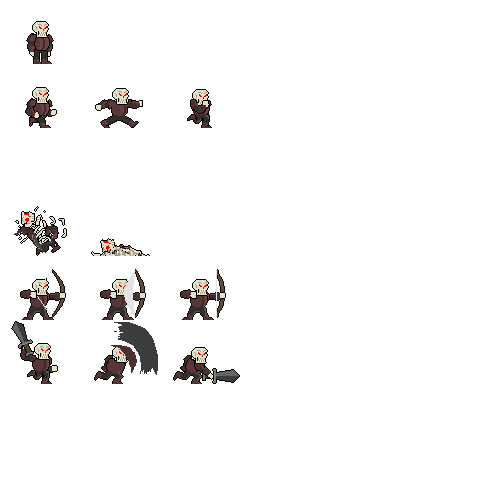
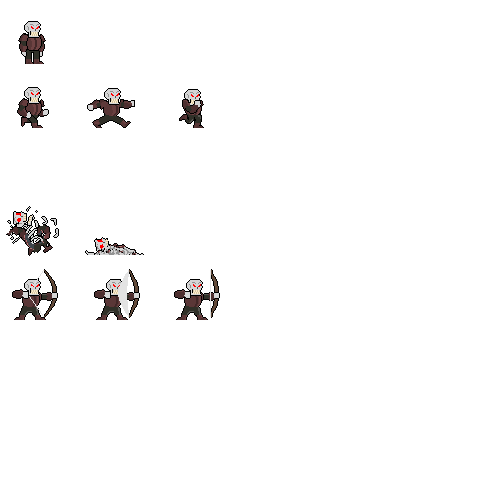
Ajouts du système de combat du boss

diff --git a/platformer/javascript/entities/Entity.js b/platformer/javascript/entities/Entity.js
@@ -11,12 +11,15 @@ function Entity(level, position, width, height){
     var selectedItemId = 0;
 
     var canAttack = true;
+    var useWeapon = true;
     var attacking = false;
 
     var dropCoin = false;
 
     var bloodRatio = 1;
     var DeathParticule = Blood;
+
+    var knockbackImmune = false;
 
     this.property.maxHealth = 0;
     this.property.baseRange = 0;
@@ -64,9 +67,13 @@ function Entity(level, position, width, height){
 
     this.animate = function(){
         if(!this.isDead()){
-            if(this.isAttacking()){
+            if(this.constructor.name == 'Boss' && this.isLaughing()){
+                this.setAnimation(this.animationList.laughing);
+            }
+            else if(this.isAttacking()){
                 var selectedWeapon = this.getSelectedItem();
-
+                this.setAttacking(false);
+                
                 if(selectedWeapon.getName() == 'bow'){
                     this.setAnimation(this.animationList.bowAttack);
                 }
@@ -79,8 +86,6 @@ function Entity(level, position, width, height){
                 else if(selectedWeapon.getName() == 'fireBallSpell'){
                     this.setAnimation(this.animationList.fireBallAttack);
                 }
-
-                this.setAttacking(false);
             }
             else if(this.isJumping()){
                 if(this.isDoubleJumping()){
@@ -130,7 +135,7 @@ function Entity(level, position, width, height){
     }
 
     this.attack = function(targets){
-        if(!canAttack || dead){
+        if(!canAttack || dead || !useWeapon){
             return;
         }
 
@@ -141,26 +146,33 @@ function Entity(level, position, width, height){
             canAttack = false;
             attacking = true;
 
-
             if(!weapon.property.projectile){
-                    for(var i in targets){
-                        if(rangeBox.intersects(targets[i]) && !targets[i].isDead() && targets[i] !== this){
-                            this.hit(targets[i], weapon, 0, this.getDirection());
+                var projectiles = level.getMap().getVisibleItems();
+
+                for(var i in targets){
+                    if(!(!rangeBox.intersects(targets[i]) || targets[i].isDead() || targets[i] === this)){
+                        this.hit(targets[i], weapon, 0, this.getDirection());
+                    }
+                }
+
+                for(var i in projectiles){
+                    if(rangeBox.intersects(projectiles[i]) && projectiles[i].isDeflectable()){
+                        projectiles[i].setStopped(true);
+                    }
+                }
+
+                // on boucle dans la liste des tiles visibles pour savoir si on a touché un tile cassable
+                var tiles = level.getMap().getVisibleTiles();
+
+                for(var i = 0, n = tiles.length; i < n; i++){
+                    var tile = tiles[i];
+                    if(tile.isBreakable()){
+                        if(this.getRangeBox().intersects(tile)){
+                            tile.break();
+                            break;
                         }
                     }
-
-                    // on boucle dans la liste des tiles visibles pour savoir si on a touché un tile cassable
-                    var tiles = level.getMap().getVisibleTiles();
-
-                    for(var i = 0, n = tiles.length; i < n; i++){
-                        var tile = tiles[i];
-                        if(tile.isBreakable()){
-                            if(this.getRangeBox().intersects(tile)){
-                                tile.break();
-                                break;
-                            }
-                        }
-                    }
+                }
             }
             else{
                 var animDelay = 0;
@@ -229,7 +241,7 @@ function Entity(level, position, width, height){
             knockback = this.property.jumpHeight;
         }
 
-        if(knockback > 0){
+        if(knockback > 0 && !entity.isKnockbackImmune()){
             entity.setVector((originDirection == 1) ? knockback : -knockback, -knockback);
         }
 
@@ -242,8 +254,10 @@ function Entity(level, position, width, height){
             var rand = Math.random();
 
             if(rand > 1 - entity.property.bleedingChance){
-                entity.setBleeding(true);
-                entity.bleed(amount);
+                level.getTimers().addTimer(function(){
+                    entity.setBleeding(true);
+                    entity.bleed(amount);
+                }, 2000);
             }
         }
 
@@ -279,7 +293,7 @@ function Entity(level, position, width, height){
         return parseInt(1 + ((this.width * this.height) / (platformer.tileSizeX * platformer.tileSizeY)) * 1, 10);
     }
     this.maxBloodAmount = function(){
-        return parseInt(1 + ((this.width * this.height) / (platformer.tileSizeX * platformer.tileSizeY)) * 12, 10);
+        return parseInt(1 + ((this.width * this.height) / (platformer.tileSizeX * platformer.tileSizeY)) * 8, 10);
     }
 
 
@@ -413,11 +427,20 @@ function Entity(level, position, width, height){
     this.setCanAttack = function(b){
         canAttack = b;
     }
+    this.setCanUseWeapon = function(b){
+        useWeapon = b;
+    }
 
+    this.setKnockbackImmune = function(b){
+        knockbackImmune = b;
+    }
+
+    this.isKnockbackImmune = function(){ return knockbackImmune; }
     this.getInventory = function(){ return inventory; }
     this.isDead = function(){ return dead; }
     this.getHealth = function(){ return health; }
     this.isBleeding = function(){ return bleeding; }
     this.isAttacking = function(){ return attacking; }
     this.canDropCoin = function(){ return dropCoin; }
+    this.canUseWeapon = function(){ return useWeapon; }
 }

diff --git a/platformer/javascript/entities/Boss.js b/platformer/javascript/entities/Boss.js
@@ -1,7 +1,31 @@
 function Boss(level, position){
-    AI_Entity.call(this, level, position, 90, 170);
+    AI_Entity.call(this, level, position, 58 * platformer.scale, 81 * platformer.scale);
 
-    this.setRenderBox(160 * platformer.scale, 128 * platformer.scale);
+    var self = this;
+
+    this.setRenderBox(122 * platformer.scale, 122 * platformer.scale);
+    this.setViewBoxHeightRatio(0.75);
+
+    this.property.speed = 0.1;
+    this.property.stopSpeed = 0.1;
+    this.property.maxSpeed = 0.3;
+    this.property.fallSpeed = 2;
+    this.property.maxFallSpeed = 8;
+    this.property.jumpHeight = 3;
+    this.property.doubleJumpHeight = 4;
+    this.property.maxHealth = 50;
+    this.property.baseRange = 50;
+    this.property.bleedingChance = 0;
+    this.property.attackCooldown = 0;
+    this.property.reactionTime = 500;
+    this.property.viewDistance = 750;
+
+
+    this.animationList.idle = new Animation('idle', platformer.textures.boss.idle, 1000, { random : true });
+    this.animationList.walking = new Animation('walking', platformer.textures.boss.walking, 400);
+    this.animationList.laughing = new Animation('laughing', platformer.textures.boss.laughing, 350);
+    this.animationList.falling = new Animation('falling', platformer.textures.boss.falling, 1000);
+    this.animationList.fireBallAttack = new Animation('fireBallAttack', platformer.textures.boss.idle, 150, { cancelable : true });
 
     this.setColor('#D9828C');
     this.setCanDropCoin(false);
@@ -11,4 +35,44 @@ function Boss(level, position){
 
     this.setIdle(false);
     this.setHostile(true);
+    this.setKnockbackImmune(true);
+
+    this.addInventory(platformer.weapons.fireballSpell);
+    this.setSelectedItem(0);
+
+    var laughing = false;
+
+    giggle();
+
+    function giggle(){
+        if(!self.isDead()){
+            var delay = (!laughing) ? 2000 : 5000;
+
+            level.getTimers().addTimer(function(){
+                var rand = Math.random();
+                if(!laughing){
+                    console.log('hahaha');
+                    laughing = true;
+                    self.disableMovement(true);
+                    self.setCanUseWeapon(false);
+                }
+                else{
+                    console.log('attack');
+                    laughing = false;
+                    self.disableMovement(false);
+                    self.setCanUseWeapon(true);
+                }
+
+                giggle();
+            }, delay);
+        }
+    }
+
+    this.isLaughing = function(){
+        return laughing;
+    }
+
+    this.setLaughing = function(b){
+        laughing = b;
+    }
 }

diff --git a/platformer/javascript/entities/AI_Entity.js b/platformer/javascript/entities/AI_Entity.js
@@ -15,6 +15,8 @@ function AI_Entity(level, position, width, height){
     var player;
     var timers;
 
+    var viewBoxHeightRatio = 2/5;
+
     this.property.reactionTime = 350;
     this.property.attackCooldown = 500;
     this.property.viewDistance = 250;
@@ -184,7 +186,7 @@ function AI_Entity(level, position, width, height){
             attacked = self.isAttacked();
 
             // on accélère le mouvement de l'IA si elle voit le player
-            if(hasFocusPlayer && !selectedItem.property.projectile){
+            if(hasFocusPlayer && typeof selectedItem !== 'undefined' && !selectedItem.property.projectile){
                 self.setBonus('speed', 2.5, 5000);
             }
             else{
@@ -274,7 +276,7 @@ function AI_Entity(level, position, width, height){
 
     this.getViewBox = function(){
         var offset = (this.getDirection() == 0) ? -this.property.viewDistance : this.width;
-        return new Rectangle(this.x + offset, this.y, this.property.viewDistance, this.height * 2/5);
+        return new Rectangle(this.x + offset, this.y, this.property.viewDistance, this.height * viewBoxHeightRatio);
     }
 
     this.setIdle = function(b){
@@ -282,6 +284,9 @@ function AI_Entity(level, position, width, height){
     }
     this.setHostile = function(b){
         hostile = b;
+    }
+    this.setViewBoxHeightRatio = function(r){
+        viewBoxHeightRatio = r;
     }
 
     this.isIdle = function(){ return idle; }

diff --git a/platformer/javascript/entities/Player.js b/platformer/javascript/entities/Player.js
@@ -38,14 +38,15 @@ function Player(level){
     this.property.baseRange = 25;
     this.property.bleedingChance = 0.1;
 
+
     var stats = { };
 
     this.setCanDropCoin(false);
     this.addInventory(platformer.weapons.sword);
     this.addInventory(platformer.weapons.bow);
     this.addInventory(platformer.weapons.knife);
-    this.setSelectedItem(2);
-    this.setBloodRatio(0.5);
+    this.setSelectedItem(0);
+    this.setBloodRatio(1);
 
     this.init = function(){
         stats.coins = 0;
